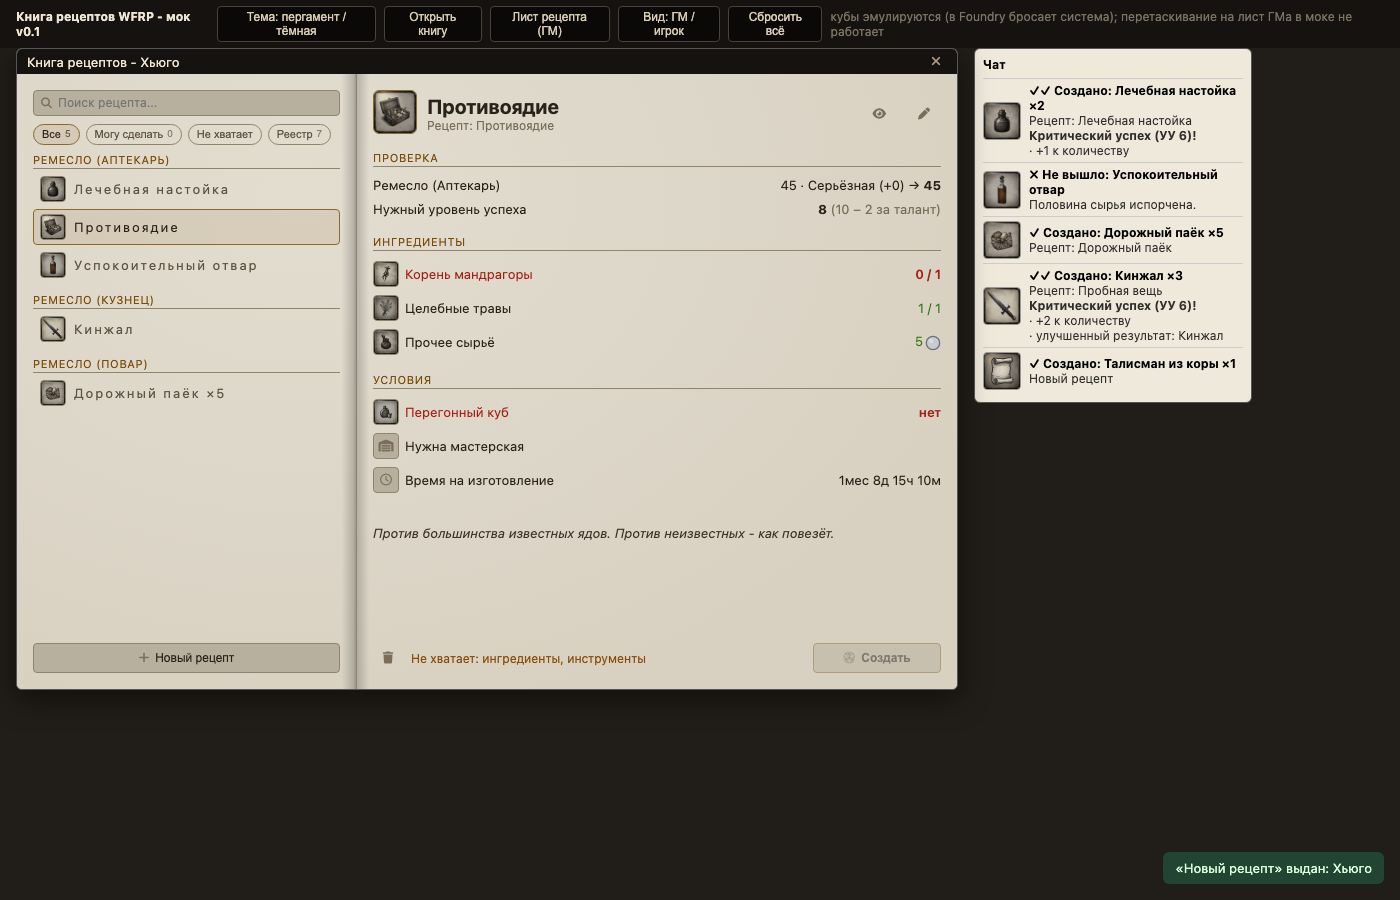
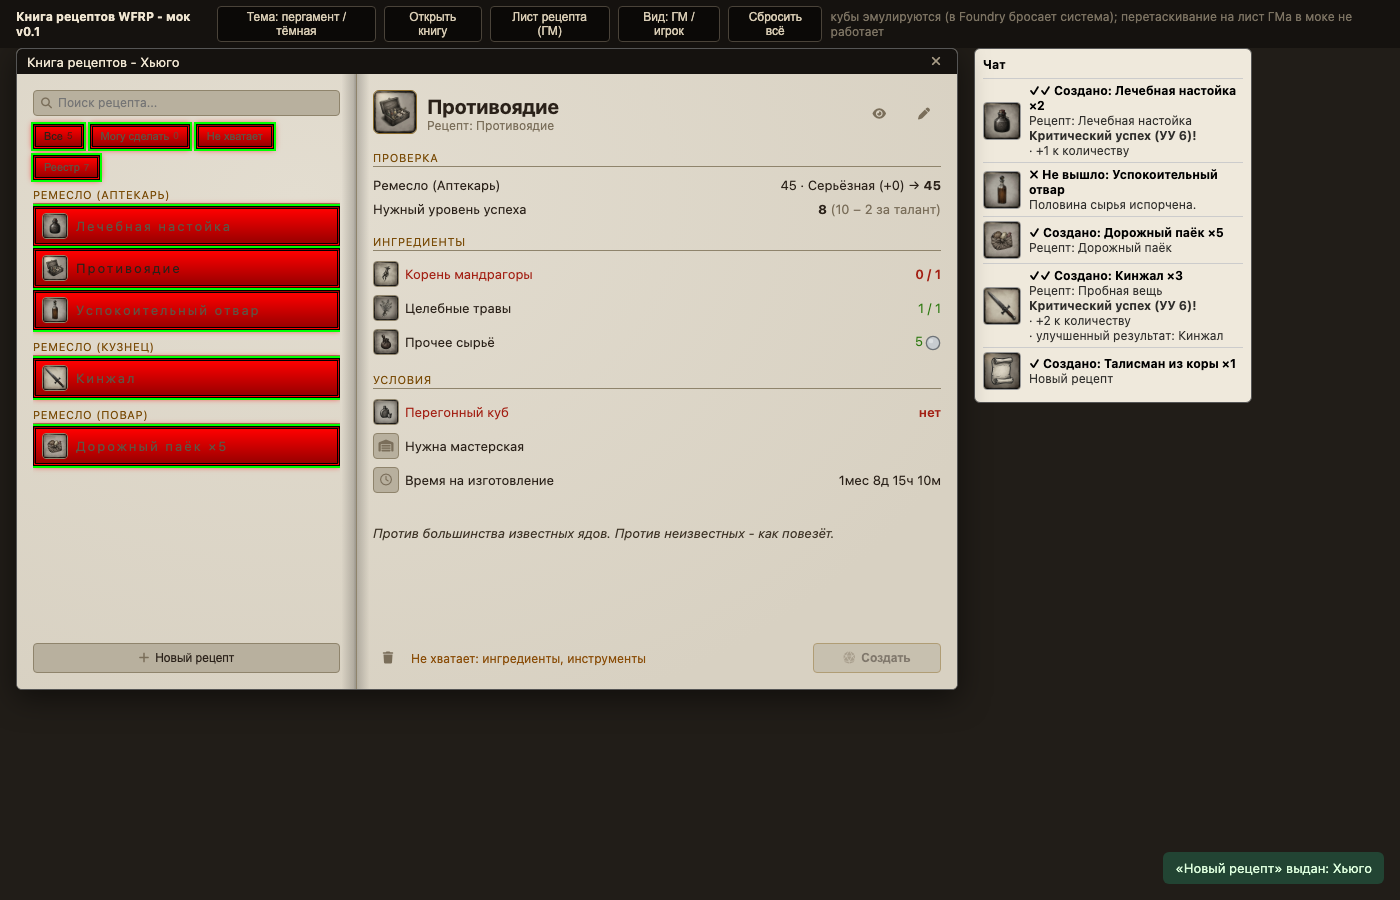
v0.1.13: кнопки перебивают скин системы точечными important (рамка/тень/фон/outline)

Changed region(s): [[0.0, 0.1244, 0.2457, 0.5289]]

diff --git a/styles/rb-system.css b/styles/rb-system.css
@@ -104,19 +104,25 @@
   box-sizing: border-box; width: auto; height: auto; min-height: var(--rb-btn-h);
   margin: 0; padding: var(--rb-btn-pad-y) var(--rb-btn-pad-x);
   font-size: var(--rb-fs-m); line-height: 1.2; font-weight: 400; text-align: center;
-  background: var(--rb-well); border: 1px solid var(--rb-frame); border-radius: var(--rb-radius);
   color: var(--rb-text); cursor: pointer;
-  background-image: none; box-shadow: none; border-image: none;
+  /* скин системы рисует кнопкам свои рамки/фактуры поверх наших - спорные свойства с !important */
+  background: var(--rb-well) !important;
+  background-image: none !important;
+  border: 1px solid var(--rb-frame) !important;
+  border-radius: var(--rb-radius) !important;
+  border-image: none !important;
+  box-shadow: none !important;
+  outline: none !important;
   text-transform: none; text-shadow: none; letter-spacing: normal;
 }
 .wfrp-recipe-book button.rb-btn:hover,
-.wfrp-recipe-book .rb-btn:hover { background: var(--rb-hover); color: var(--rb-text); box-shadow: none; text-shadow: none; }
+.wfrp-recipe-book .rb-btn:hover { background: var(--rb-hover) !important; color: var(--rb-text); box-shadow: none !important; text-shadow: none; }
 .wfrp-recipe-book button.rb-btn[disabled], .wfrp-recipe-book .rb-btn[disabled] { opacity: 0.5; cursor: default; }
 .wfrp-recipe-book .rb-btn i { color: var(--rb-muted); }
-.wfrp-recipe-book button.rb-btn--quiet, .wfrp-recipe-book .rb-btn--quiet { background: none; border-color: transparent; }
+.wfrp-recipe-book button.rb-btn--quiet, .wfrp-recipe-book .rb-btn--quiet { background: none !important; border-color: transparent !important; }
 /* Акцентная кнопка главного действия окна («Создать», «Сохранить», «Выдать»):
    тот же размер, что у всех кнопок - выделяется только рамкой и жирностью */
-.wfrp-recipe-book button.rb-btn--craft, .wfrp-recipe-book .rb-btn--craft { border-color: var(--rb-gold-soft); font-weight: 600; }
+.wfrp-recipe-book button.rb-btn--craft, .wfrp-recipe-book .rb-btn--craft { border-color: var(--rb-gold-soft) !important; font-weight: 600; }
 
 /* Квадратные иконко-кнопки: «+» в заголовке секции и крестик удаления строки */
 .wfrp-recipe-book button.rb-add,
